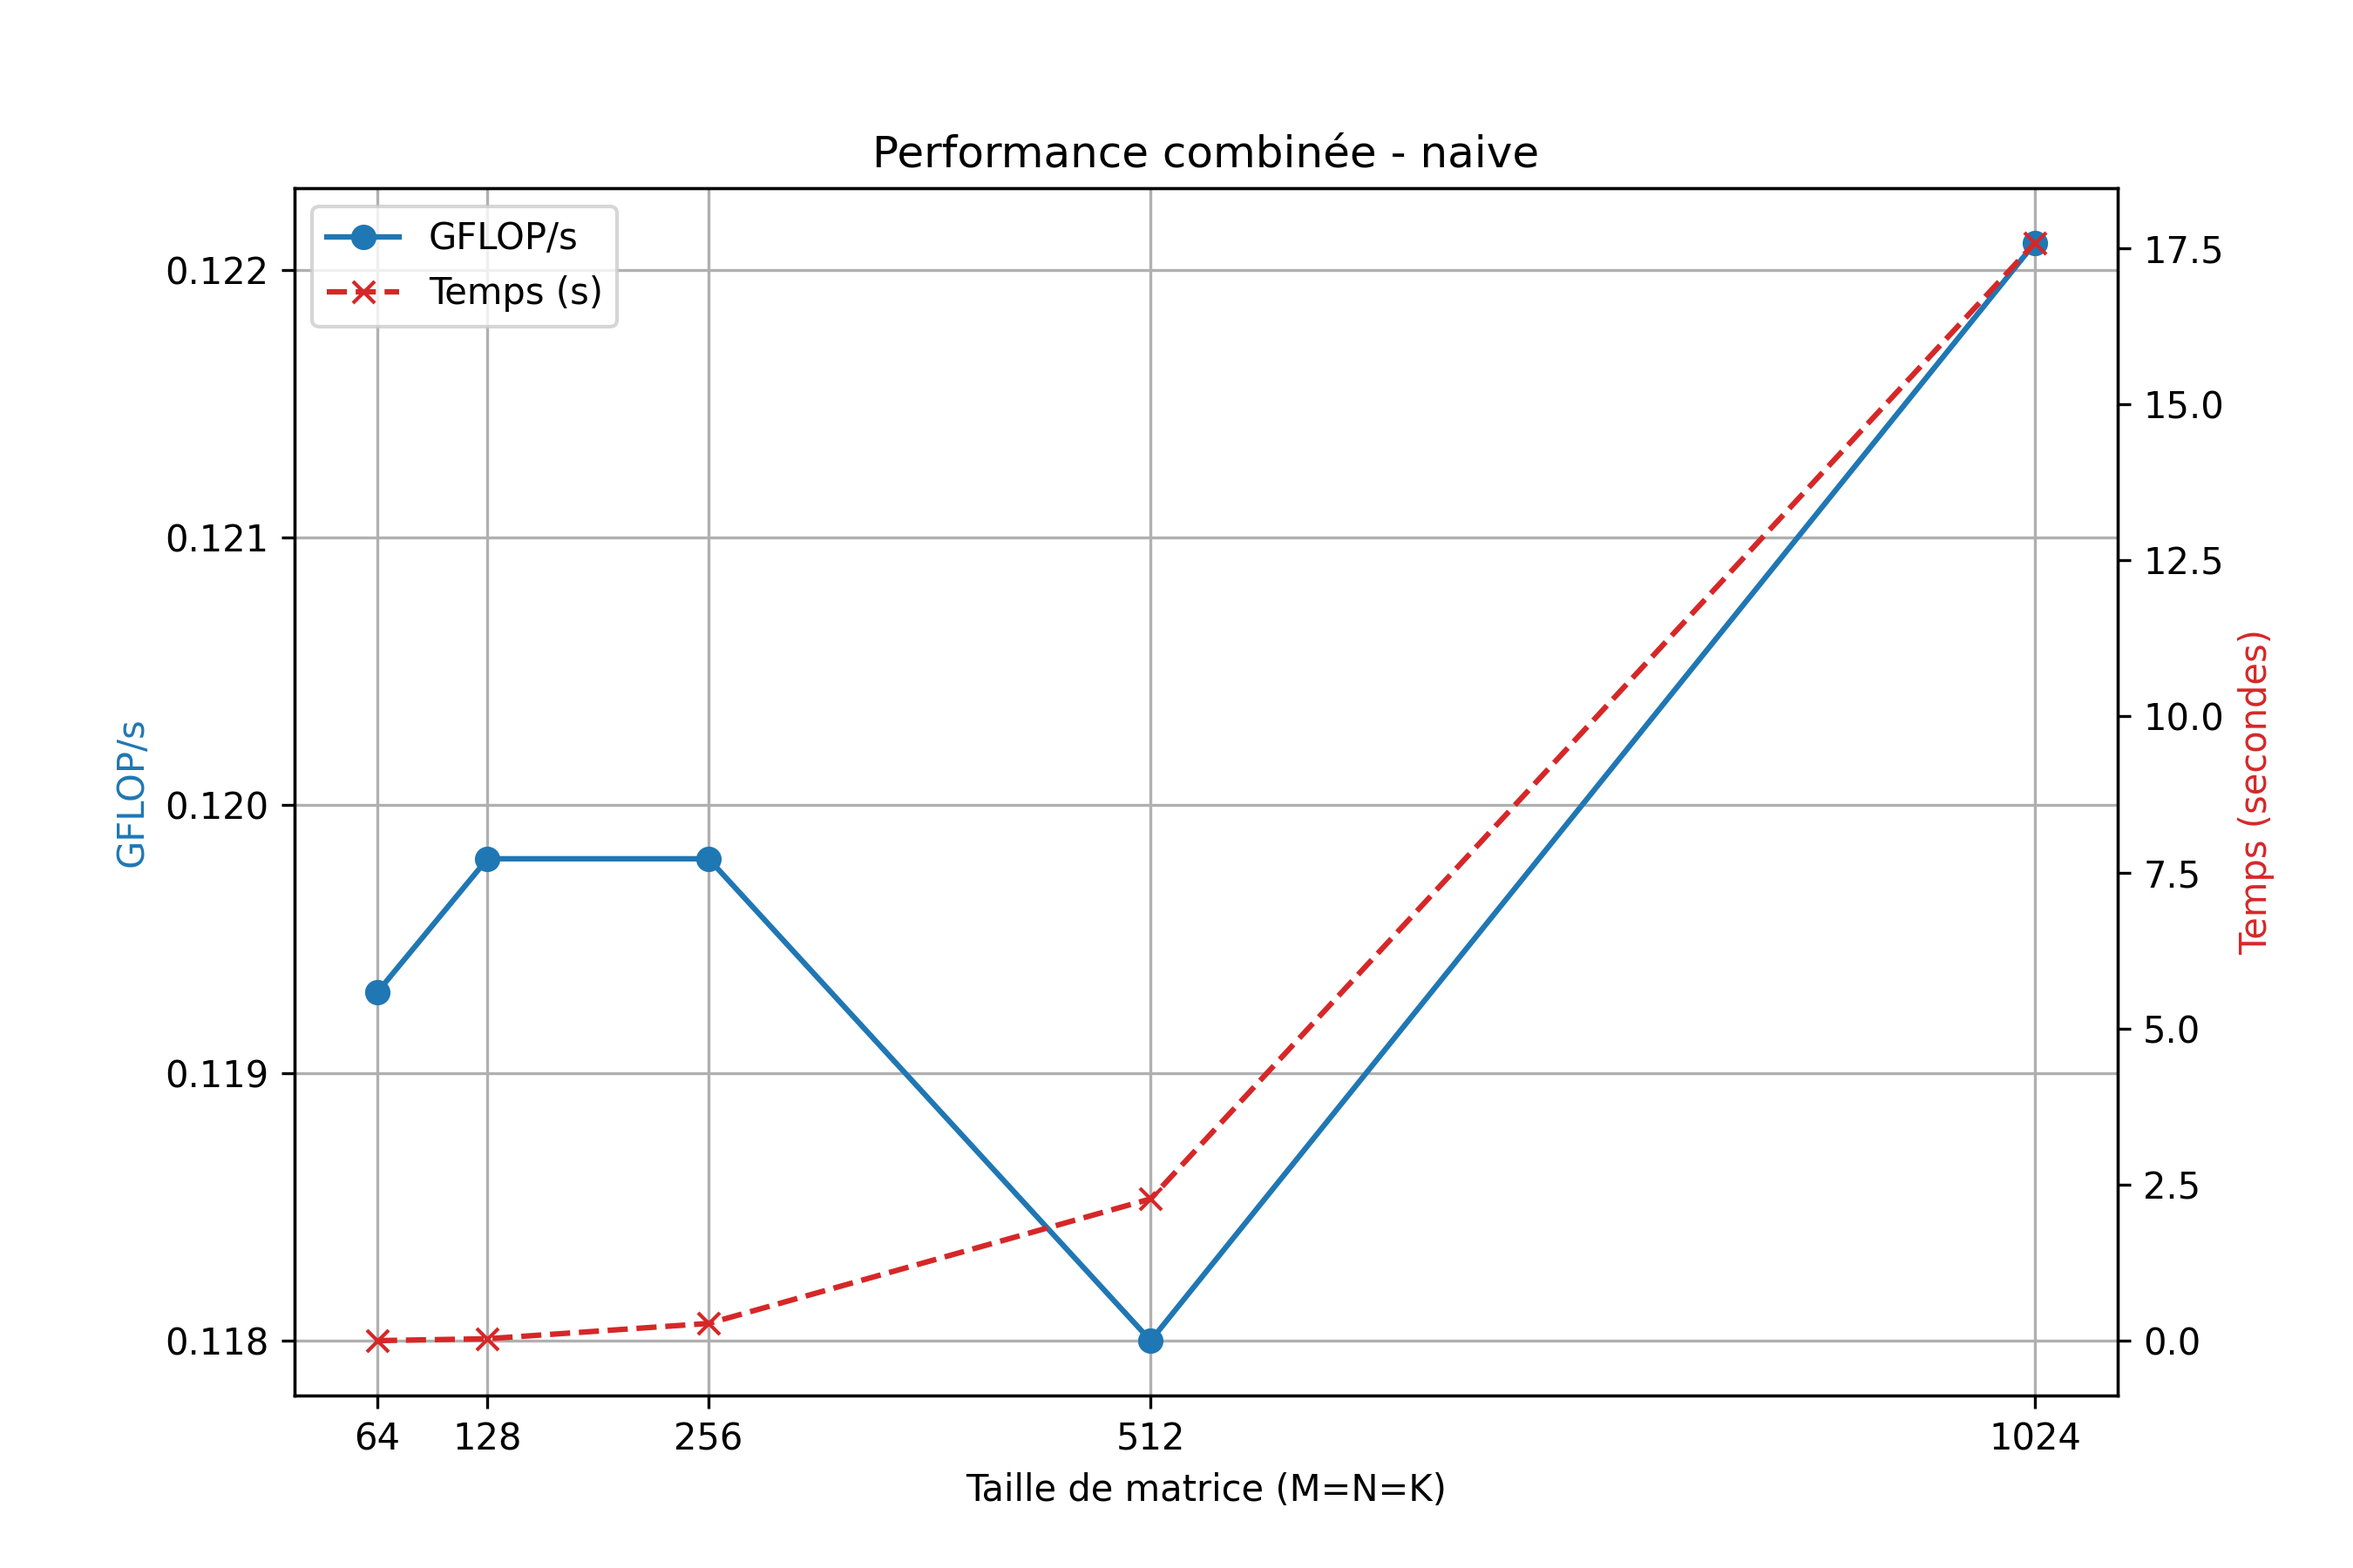
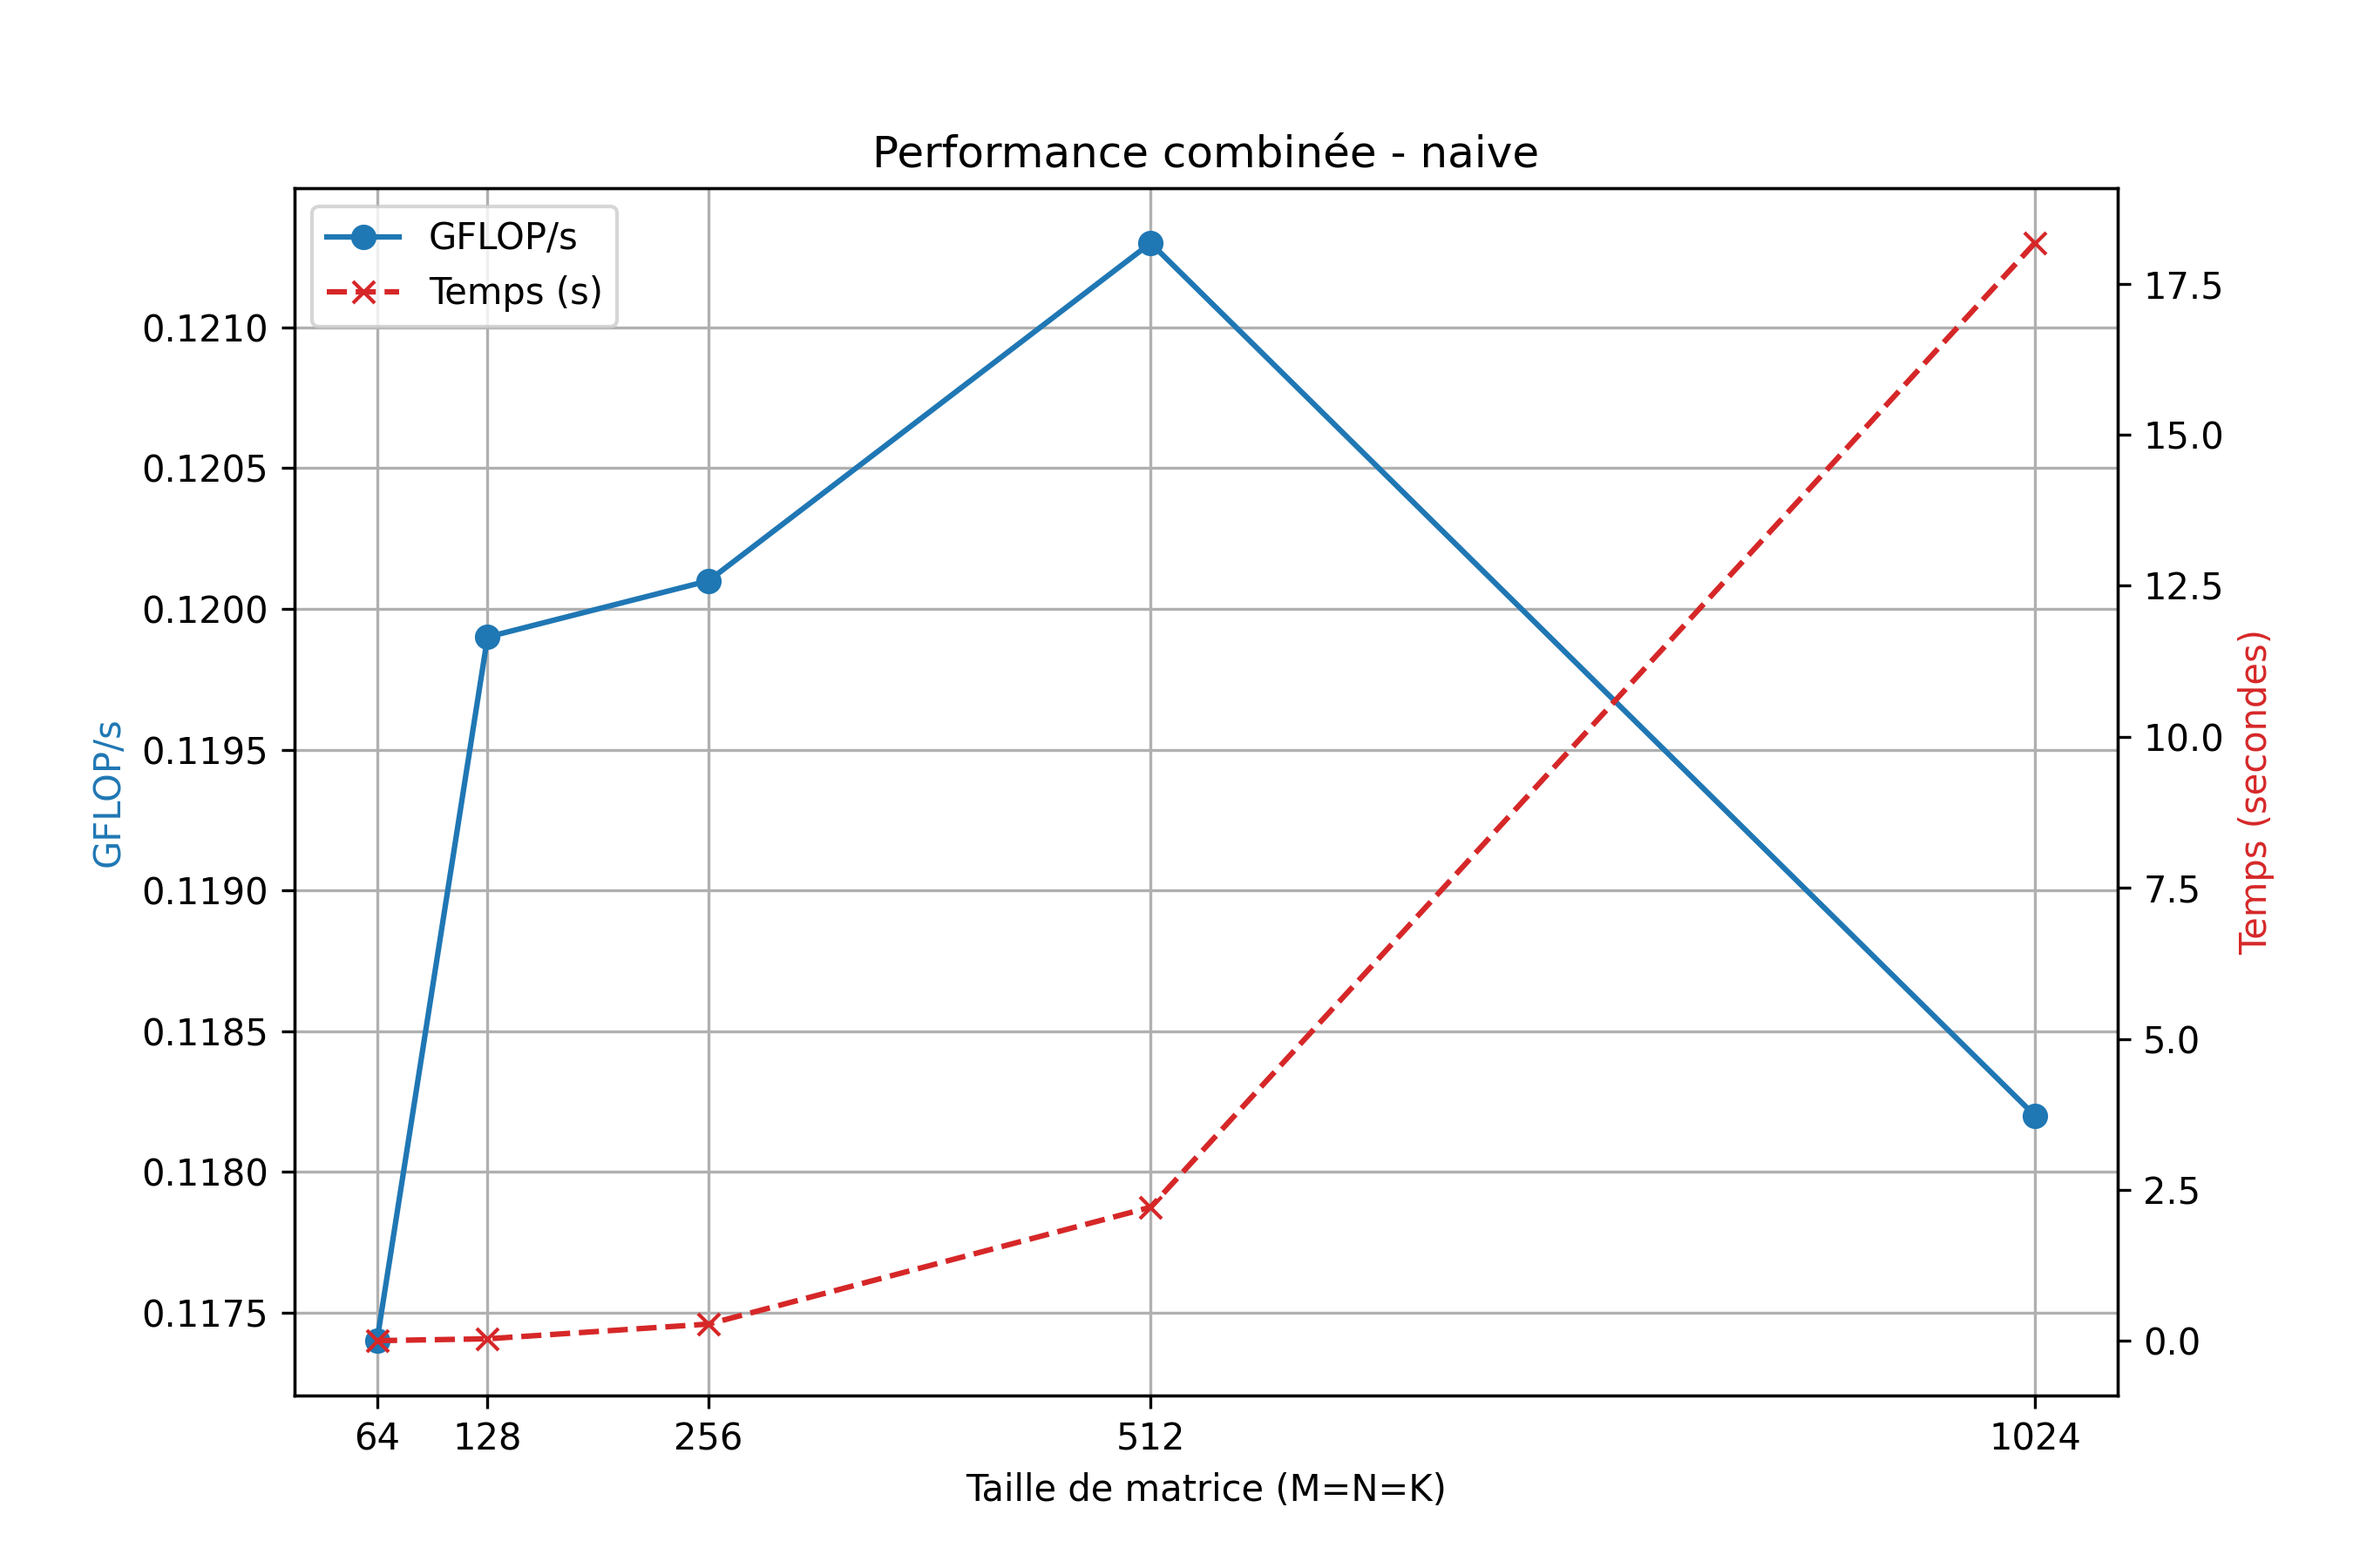
Ajout d'un script python pour comparer les layouts + modification du main.cpp pour activer layoutleft ou right + petite modification de benchmark_to_csv pour modifier les tailles de matrices

diff --git a/script/plot_multi_mode.py b/script/plot_multi_mode.py
@@ -1,0 +1,114 @@
+import matplotlib.pyplot as plt
+import csv
+import sys
+import os
+import re
+
+if len(sys.argv) < 3:
+    print("Usage: python plot_multi_all.py <chemin_csv> <mode> [low|high] <version1> <version2> ...")
+    sys.exit(1)
+
+csv_path_file = sys.argv[1]
+mode = sys.argv[2]
+
+remaining_args = sys.argv[3:]
+size_range = "all"
+if remaining_args and remaining_args[0] in ["low", "high"]:
+    size_range = remaining_args.pop(0)
+
+selected_versions = remaining_args  # Peut être vide
+
+if not os.path.exists(csv_path_file):
+    print(f"Fichier introuvable : {csv_path_file}")
+    sys.exit(1)
+
+gflops_data = {}
+time_data = {}
+sizes = []
+
+with open(csv_path_file, newline='') as csvfile:
+    reader = csv.DictReader(csvfile)
+    headers = reader.fieldnames
+
+    all_gflops_versions = [re.match(r"(.+)_gflops", h).group(1) for h in headers if h.endswith("_gflops")]
+    all_time_versions = [re.match(r"(.+)_time", h).group(1) for h in headers if h.endswith("_time")]
+
+    if not selected_versions:
+        selected_versions = list(set(all_gflops_versions) & set(all_time_versions))
+
+    for version in selected_versions:
+        gflops_data[version] = []
+        time_data[version] = []
+
+    for row in reader:
+        size = int(row["size"])
+        if size_range == "low" and size > 128:
+            continue
+        if size_range == "high" and size < 64:
+            continue
+        sizes.append(size)
+        for version in selected_versions:
+            val_gf = row.get(f"{version}_gflops", "")
+            gflops_data[version].append(float(val_gf) if val_gf else None)
+            val_t = row.get(f"{version}_time", "")
+            t = float(val_t) if val_t else None
+            if size_range == "low" and t is not None:
+                t *= 1000
+            time_data[version].append(t)
+
+colors = ["tab:blue", "tab:orange", "tab:green", "tab:red", "tab:purple"]
+
+if mode == "combined":
+    fig, ax1 = plt.subplots(figsize=(10, 6))
+    ax2 = ax1.twinx()
+    for i, version in enumerate(selected_versions):
+        ax1.plot(sizes, gflops_data[version], marker='o', linestyle='-', color=colors[i % len(colors)], label=f"{version} GFLOP/s")
+        ax2.plot(sizes, time_data[version], marker='x', linestyle='--', color=colors[i % len(colors)], label=f"{version} Temps")
+    ax1.set_xlabel("Taille de matrice (M=N=K)")
+    ax1.set_ylabel("GFLOP/s", color="black")
+    ax2.set_ylabel("Temps (millisecondes)" if size_range == "low" else "Temps (secondes)", color="black")
+    ax1.set_title("Comparaison combinée des performances (GFLOP/s vs Temps)")
+    ax1.set_xticks(sizes)
+    ax1.grid(True)
+    lines1, labels1 = ax1.get_legend_handles_labels()
+    lines2, labels2 = ax2.get_legend_handles_labels()
+    ax1.legend(lines1 + lines2, labels1 + labels2, loc="lower right")
+    output_name = f"assets/plots/combined/plot_multi_combined_{os.path.splitext(os.path.basename(csv_path_file))[0]}_{size_range}.png"
+
+elif mode == "gflops":
+    plt.figure(figsize=(9, 6))
+    for i, version in enumerate(selected_versions):
+        if any(v is not None for v in gflops_data[version]):
+            plt.plot(sizes, gflops_data[version], marker='o', linestyle='-', color=colors[i % len(colors)], label=version.capitalize())
+    plt.title("Comparaison des performances - Produit matriciel")
+    plt.xlabel("Taille de matrice (M=N=K)")
+    plt.ylabel("GFLOP/s")
+    plt.xticks(sizes)
+    plt.grid(True)
+    plt.legend(loc="lower right")
+    plt.tight_layout()
+    output_name = f"assets/plots/gflops/plot_multi_gflops_{os.path.splitext(os.path.basename(csv_path_file))[0]}_{size_range}.png"
+
+elif mode == "time":
+    plt.figure(figsize=(9, 6))
+    for i, version in enumerate(selected_versions):
+        if any(v is not None for v in time_data[version]):
+            label = f"{version} (ms)" if size_range == "low" else f"{version} (s)"
+            plt.plot(sizes, time_data[version], marker='o', linestyle='-', color=colors[i % len(colors)], label=label)
+    plt.title("Temps d’exécution - Produit matriciel")
+    plt.xlabel("Taille de matrice (M=N=K)")
+    plt.ylabel("Temps (millisecondes)" if size_range == "low" else "Temps (secondes)")
+    plt.xticks(sizes)
+    plt.grid(True)
+    plt.legend(loc="lower right")
+    plt.tight_layout()
+    output_name = f"assets/plots/time/plot_multi_times_{os.path.splitext(os.path.basename(csv_path_file))[0]}_{size_range}.png"
+
+else:
+    print("Mode invalide. Utilisez 'combined', 'gflops' ou 'time'.")
+    sys.exit(1)
+
+os.makedirs(os.path.dirname(output_name), exist_ok=True)
+plt.savefig(output_name, dpi=300)
+print(f"Graphe sauvegardé : {output_name}")
+plt.show()

diff --git a/src/main.cpp b/src/main.cpp
@@ -3,6 +3,8 @@
 
 #include <Kokkos_Core.hpp>
 #include <fmt/core.h>
+#include <Kokkos_Timer.hpp>
+#include <string>
 
 using Matrix = Kokkos::View<double**, Kokkos::LayoutRight>;
 
@@ -53,25 +55,60 @@ auto main(int argc, char* argv[]) -> int {
   int m = std::atoi(argv[1]);
   int n = std::atoi(argv[2]);
   int k = std::atoi(argv[3]);
+  std::string layout_arg = argv[4];
 
   // Known seed for deterministic RNG
   srand48(42);
 
   Kokkos::initialize(argc, argv);
   {
-    auto A = Matrix("A", m, k);
-    auto B = Matrix("B", k, n);
-    auto C = Matrix("C", m, n);
+    if (layout_arg == "right") {
+      using Matrix = Kokkos::View<double**, Kokkos::LayoutRight>;
 
-    double alpha = drand48();
-    matrix_init(A);
-    matrix_init(B);
-    double beta = drand48();
-    matrix_init(C);
+      auto A = Matrix("A", m, k);
+      auto B = Matrix("B", k, n);
+      auto C = Matrix("C", m, n);
 
-    Kokkos::fence();
-    matrix_product(alpha, A, B, beta, C);
-    Kokkos::fence();
+      double alpha = drand48();
+      matrix_init(A);
+      matrix_init(B);
+      double beta = drand48();
+      matrix_init(C);
+
+      Kokkos::fence();
+
+      Kokkos::Timer timer; // Pour mesurer le temps de mnaière bien plus précise
+      matrix_product(alpha, A, B, beta, C);
+      Kokkos::fence();
+      double elapsed = timer.seconds();
+      
+      fmt::print("Time: {:.6f} s\n", elapsed);
+    } else if (layout_arg == "left") {
+      using Matrix = Kokkos::View<double**, Kokkos::LayoutLeft>;
+
+      auto A = Matrix("A", m, k);
+      auto B = Matrix("B", k, n);
+      auto C = Matrix("C", m, n);
+
+      double alpha = drand48();
+      matrix_init(A);
+      matrix_init(B);
+      double beta = drand48();
+      matrix_init(C);
+
+      Kokkos::fence();
+
+      Kokkos::Timer timer; // Pour mesurer le temps de mnaière bien plus précise
+      matrix_product(alpha, A, B, beta, C);
+      Kokkos::fence();
+      double elapsed = timer.seconds();
+      
+      fmt::print("Time: {:.6f} s\n", elapsed);
+    } else {
+      fmt::print("Layout non renseigné : Utilise 'left' ou 'right'.\n", layout_arg);
+      Kokkos::finalize();
+      return -1;
+    }
   }
   Kokkos::finalize();
   return 0;

diff --git a/script/benchmark_to_csv.py b/script/benchmark_to_csv.py
@@ -4,26 +4,29 @@ import csv
 import sys
 import os
 import re
+from tqdm import tqdm
 
-if len(sys.argv) < 3:
-    print("Usage: python benchmark_to_combined_csv.py <chemin_exécutable> <label_version> <nb_repetitions>")
+if len(sys.argv) < 5:
+    print("Usage: python benchmark_to_combined_csv.py <chemin_exécutable> <label_version> <nb_repetitions> <right|left>")
     sys.exit(1)
 
 executable = sys.argv[1]
 version_label = sys.argv[2]
 repeats = int(sys.argv[3])
+layout_arg = sys.argv[4]
 
-csv_path_name = "assets/datas/results_comparaison4-1024.csv"
-sizes = [4, 8, 16, 32, 64, 128, 256, 512, 1024]
+csv_path_name = "assets/datas/results_comparaison128-2048.csv"
+sizes = [128, 192, 256, 384, 512, 768, 1024]
 
 gflops_col = f"{version_label}_gflops"
 time_col = f"{version_label}_time"
 
 results = {}
-for n in sizes:
+print(f"Benchmarking version '{version_label}' ({layout_arg}) sur {repeats} répétitions...\n")
+for n in tqdm(sizes, desc="Progression", unit="taille"):
     durations = []
     for _ in range(repeats):
-        result = subprocess.run([executable, str(n), str(n), str(n)], check=True, capture_output=True, text=True)
+        result = subprocess.run([executable, str(n), str(n), str(n), layout_arg], check=True, capture_output=True, text=True)
         # Extraction du temps avec une regex
         match = re.search(r"Time:\s*([0-9.]+)\s*s", result.stdout)
         durations.append(float(match.group(1)))
